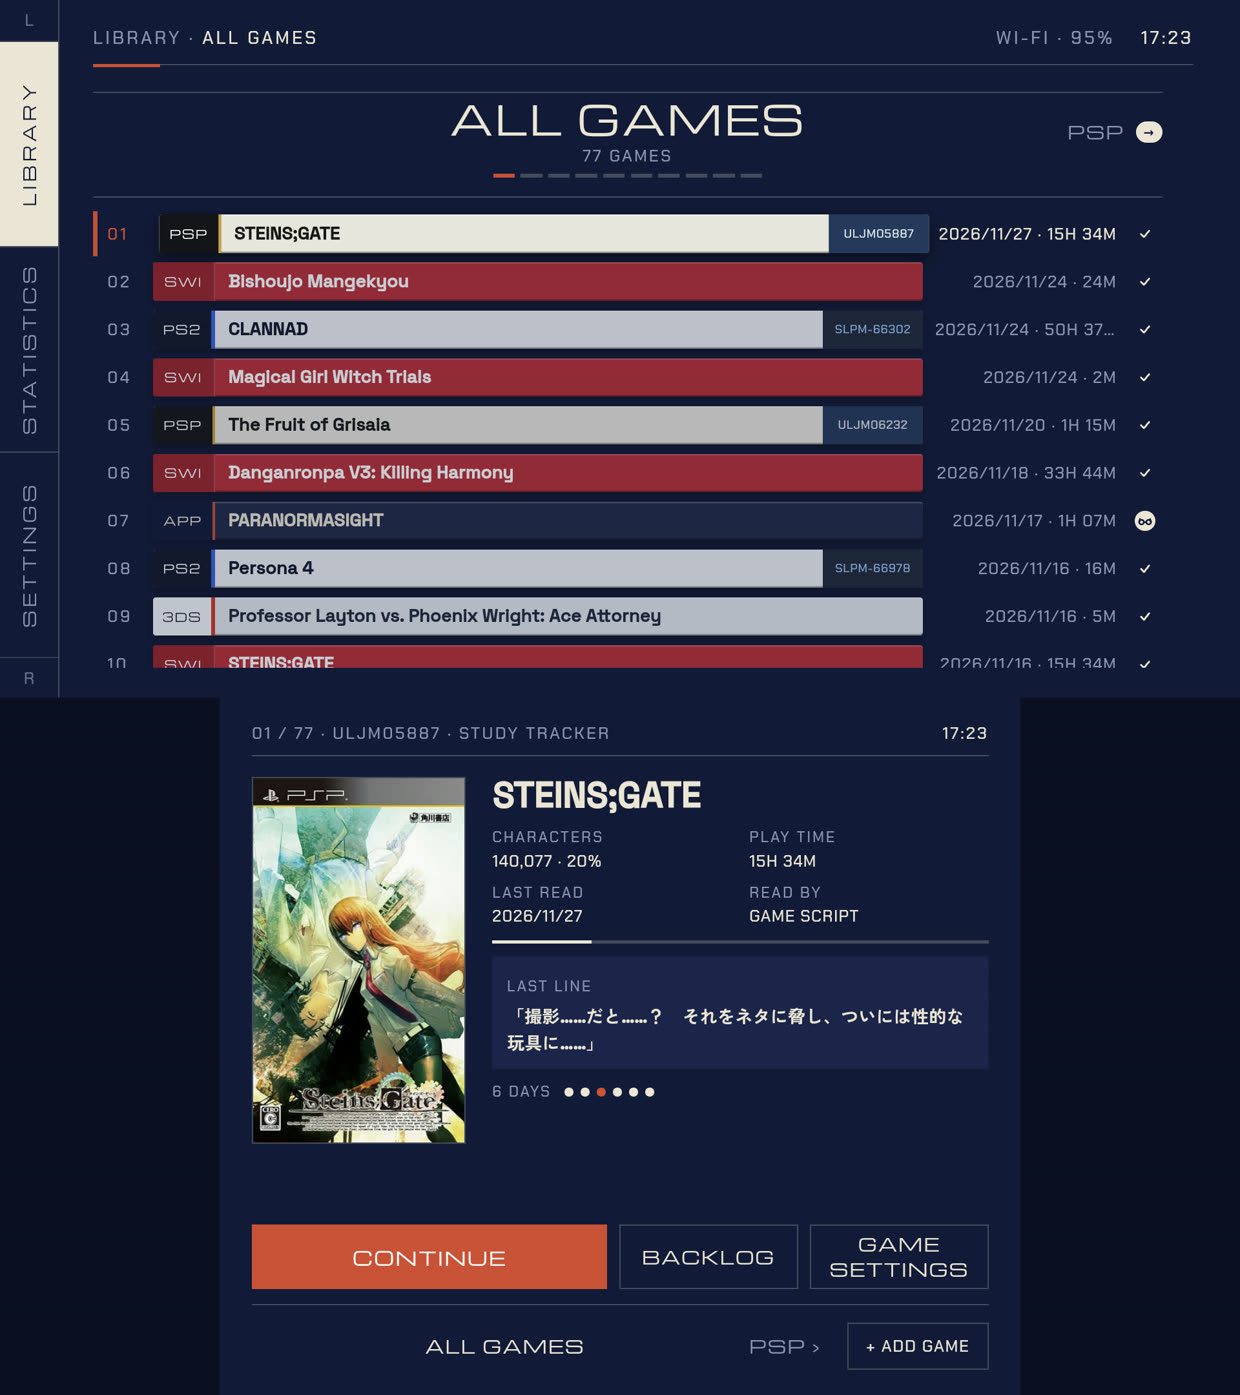
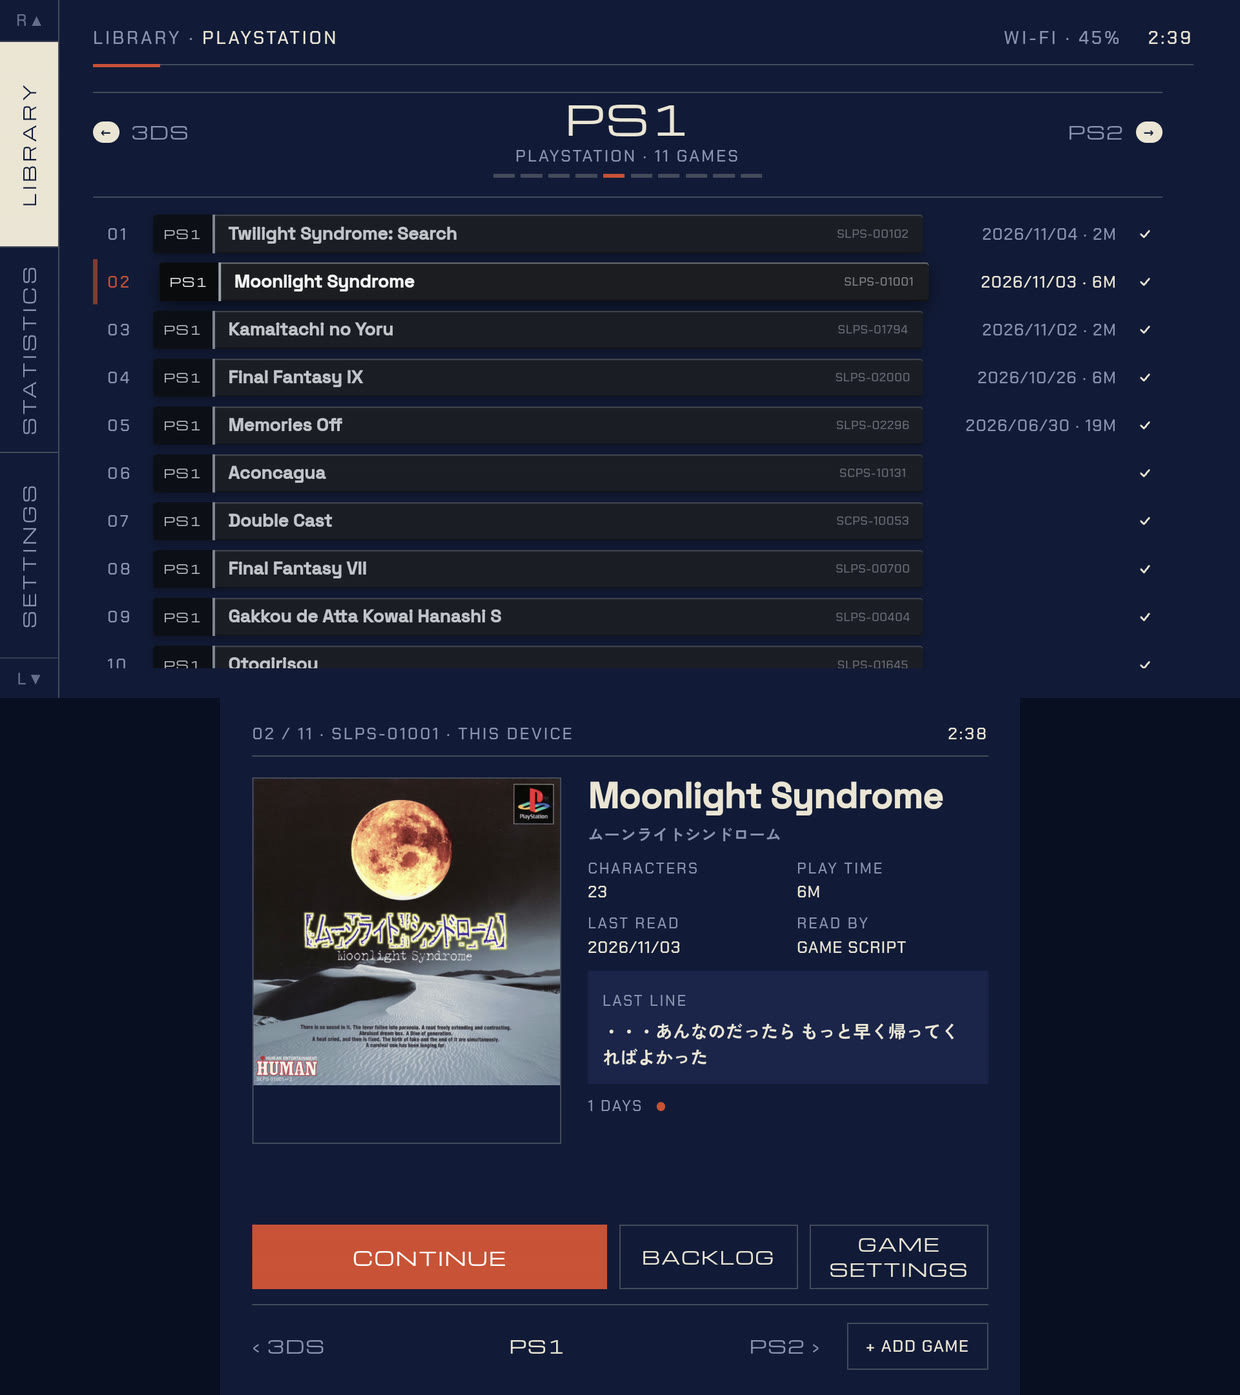
README: new Thor library picture
The Thor library picture in the README now shows the PS1 shelf and Moonlight Syndrome.

diff --git a/README.md b/README.md
@@ -136,7 +136,7 @@ See [Reading, popups, and controller controls](docs/reading.md) for the full but
 
 On Android, Furoshiki supports touch, controllers, and dual-screen handhelds such as the AYN Thor. The top display runs your library and game while the lower display shows game details, acts as a trackpad or lower-screen text panel in-game, and holds thumb controls for menus, statistics, and settings.
 
-<p align="center"><img src="home/publish/media/thor-shelf.jpg" width="620" alt="Furoshiki's library on the AYN Thor: all games on the top display, STEINS;GATE's cover, figures and last line on the lower display"></p>
+<p align="center"><img src="home/publish/media/thor-shelf.jpg" width="620" alt="Furoshiki's library on the AYN Thor: the PS1 games on the top display, Moonlight Syndrome's cover, figures and last line on the lower display"></p>
 
 <p align="center"><sub>Library on the AYN Thor: games on the top display, cover, stats, and last line on the lower display (a checkmark marks games with a script).</sub></p>
 

diff --git a/home/publish/README.md b/home/publish/README.md
@@ -136,7 +136,7 @@ See [Reading, popups, and controller controls](docs/reading.md) for the full but
 
 On Android, Furoshiki supports touch, controllers, and dual-screen handhelds such as the AYN Thor. The top display runs your library and game while the lower display shows game details, acts as a trackpad or lower-screen text panel in-game, and holds thumb controls for menus, statistics, and settings.
 
-<p align="center"><img src="home/publish/media/thor-shelf.jpg" width="620" alt="Furoshiki's library on the AYN Thor: all games on the top display, STEINS;GATE's cover, figures and last line on the lower display"></p>
+<p align="center"><img src="home/publish/media/thor-shelf.jpg" width="620" alt="Furoshiki's library on the AYN Thor: the PS1 games on the top display, Moonlight Syndrome's cover, figures and last line on the lower display"></p>
 
 <p align="center"><sub>Library on the AYN Thor: games on the top display, cover, stats, and last line on the lower display (a checkmark marks games with a script).</sub></p>
 
